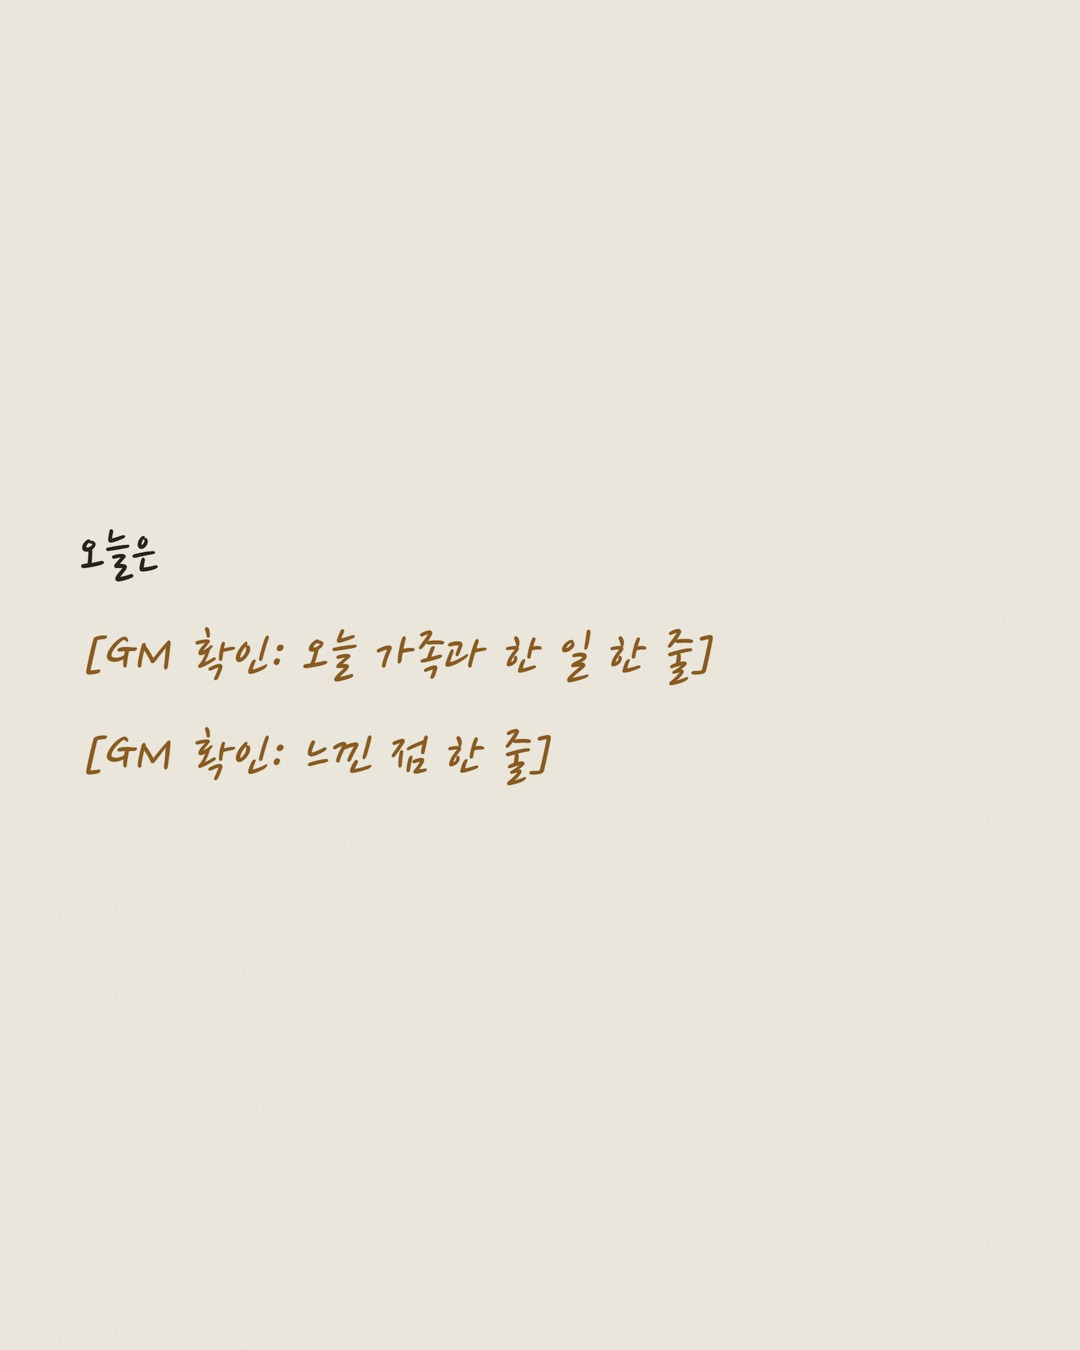
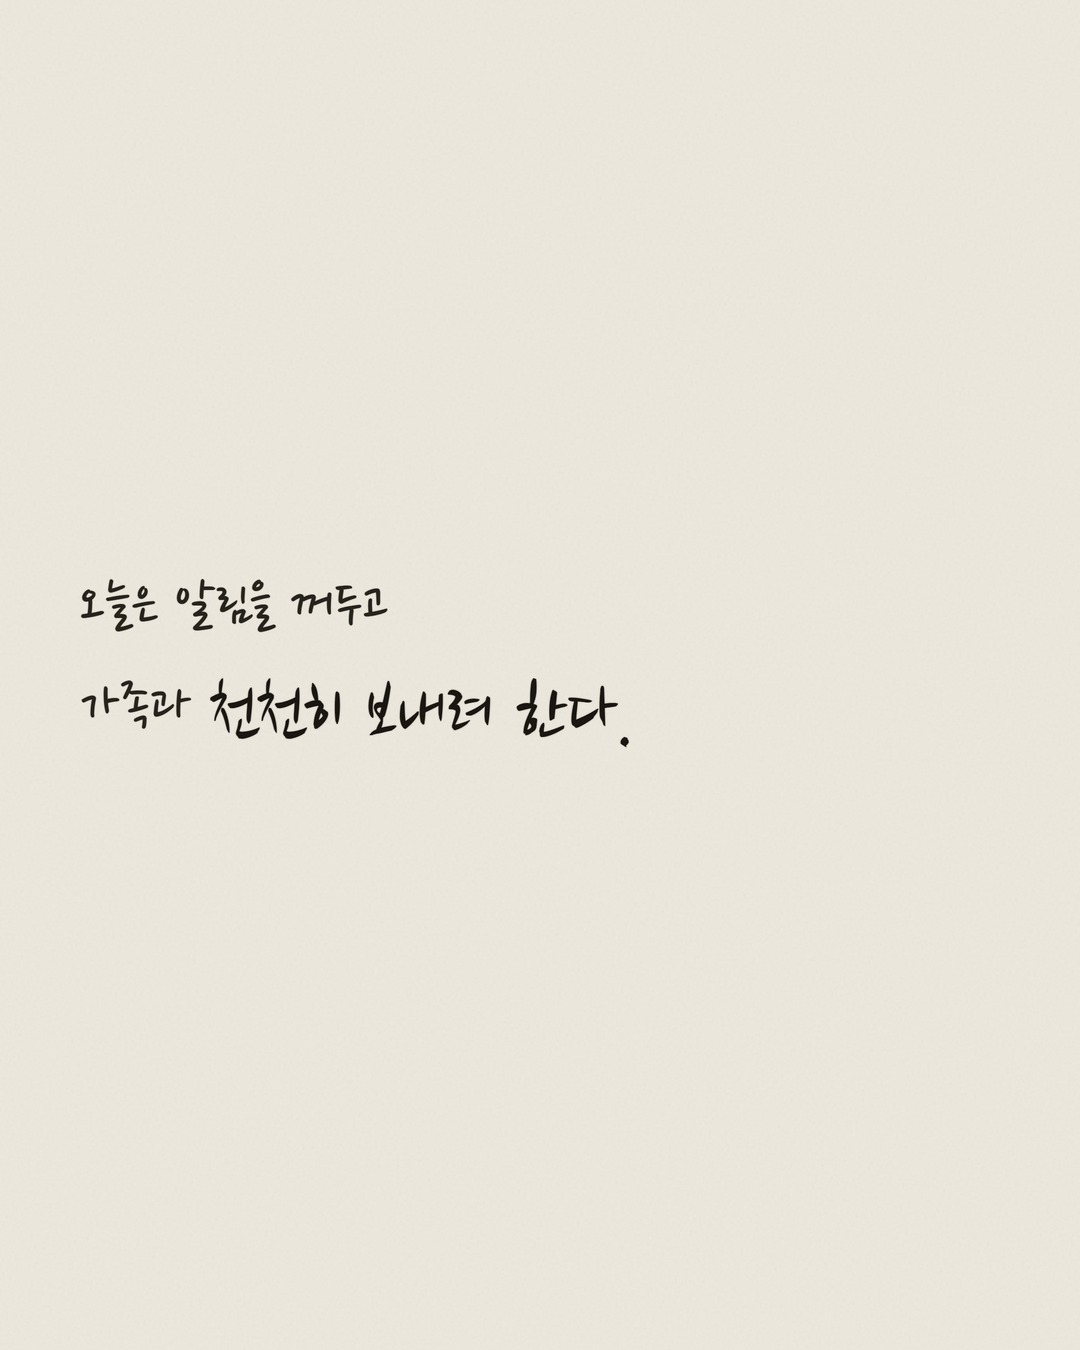
fix(cmo): GM확인란은 캡션에만 — 슬라이드에서 제거(15편 재렌더) + 규칙 박제 (2026-07-25 실사고)

Changed region(s): [[0.0611, 0.3733, 0.6722, 0.5911]]

diff --git a/instagram/namuk.wellperion/260726_GM일요일_적어두면조용해진다/ep15_diary_source.html b/instagram/namuk.wellperion/260726_GM일요일_적어두면조용해진다/ep15_diary_source.html
@@ -69,7 +69,7 @@
   <div class="head">
     <div class="kicker">@namuk.wellperion · GM의 일요일</div>
     <h1>손글씨 일기로 쓰는 일요일 — 적어두면 조용해진다</h1>
-    <p>사람·여유·다음 항로를 1인칭으로. <b>개인적인 내용은 대필하지 않고</b> [GM 확인] 자리로 비워 뒀습니다 — GM이 직접 채우는 전제. 실제 4:5.</p>
+    <p>사람·여유·다음 항로를 1인칭으로. <b>슬라이드에는 GM 확인란을 두지 않습니다</b> — 이미지는 승인 시점에 못 고치기 때문(2026-07-25 실사고). 개인적인 구체 내용은 캡션에만 확인란으로 두어 GM이 검수카드에서 채웁니다. 실제 4:5.</p>
   </div>
 
   <div class="strip">
@@ -78,7 +78,7 @@
     <div class="cell cover">
       <div class="cap">1 · 표지</div>
       <div class="sheet"><div class="pad top">
-        <div class="date"><span class="d">7월 26일</span><span class="w">[GM 확인: 날씨]</span></div>
+        <div class="date"><span class="d">7월 26일</span><span class="w">일요일</span></div>
         <div class="body"><div class="entry lead">
           걱정은 어제 적어뒀다.<br>그래서 오늘은<br><span class="hit u">조용하다.</span>
         </div></div>
@@ -124,7 +124,7 @@
       <div class="cap">5</div>
       <div class="sheet"><div class="pad mid">
         <div class="body"><div class="entry">
-          오늘은<br><span class="gm">[GM 확인: 오늘 가족과 한 일 한 줄]</span><br><span class="gm">[GM 확인: 느낀 점 한 줄]</span>
+          오늘은 알림을 꺼두고<br>가족과 <span class="hit">천천히 보내려 한다.</span>
         </div></div>
         <div class="foot"><span></span><span></span></div>
       </div></div>

diff --git a/instagram/_실전사례_2주플랜.md b/instagram/_실전사례_2주플랜.md
@@ -55,5 +55,6 @@
 
 - **상태 수명주기(완전일치)**: `대본대기`(폴더/대본 미완 — 선정 제외) → `재고(대본완료)`(시모가 대본·캡션 완성 후 직접 마킹 — 이 상태만 발송 후보) → `검수발송(YYYY-MM-DD)`(dispatcher 자동 마킹) → `발행완료(YYYY-MM-DD)`. 보류는 `보류(사유)`.
 - **queue_id 규약**: `CMO-{발송일 YYYY-MM-DD}-CASE{NN}-{슬러그}` (01~03 동일 패턴 계승).
-- **주말GM 트랙**: 편 10·11로 편입 완료. 요일 게이트가 토·일에 `주말GM` 트랙만 선정(평일 04~09와 섞이지 않음). 11편(일요일)은 대본에 [GM 확인] 플레이스홀더가 남아있는 채로 검수카드가 발송됨 — GM이 보고 채운 뒤 재검수하는 흐름(대필 방지).
+- **주말GM 트랙**: 편 10·11로 편입 완료. 요일 게이트가 토·일에 `주말GM` 트랙만 선정(평일 04~09와 섞이지 않음).
+- **★[GM 확인] 플레이스홀더는 캡션에만 — 슬라이드(이미지)엔 절대 두지 않는다 (2026-07-25 실사고 후 확정).** 이유: 검수카드에서 GM이 고칠 수 있는 건 **캡션뿐**이고 이미지는 승인 시점에 못 고친다. 그래서 슬라이드에 확인란을 두면 GM이 안 채우고 승인하는 순간 **대괄호가 그대로 인스타에 박힌다.** 실제로 12편(2026-07-18)은 캡션에, 14편(2026-07-25)은 슬라이드 5장째에 확인란이 남은 채 발행됐다. → 슬라이드 문안은 항상 그 자체로 완결시키고, GM 개인 목소리가 필요한 구체 내용(가족·느낀 점·날씨 등)은 캡션에만 확인란으로 둔다(대필 방지는 그대로 유지).
 - 상세 설계 = `docs/superpowers/specs/2026-07-10-namuk-실전사례-반자동-0730-design.md`.
